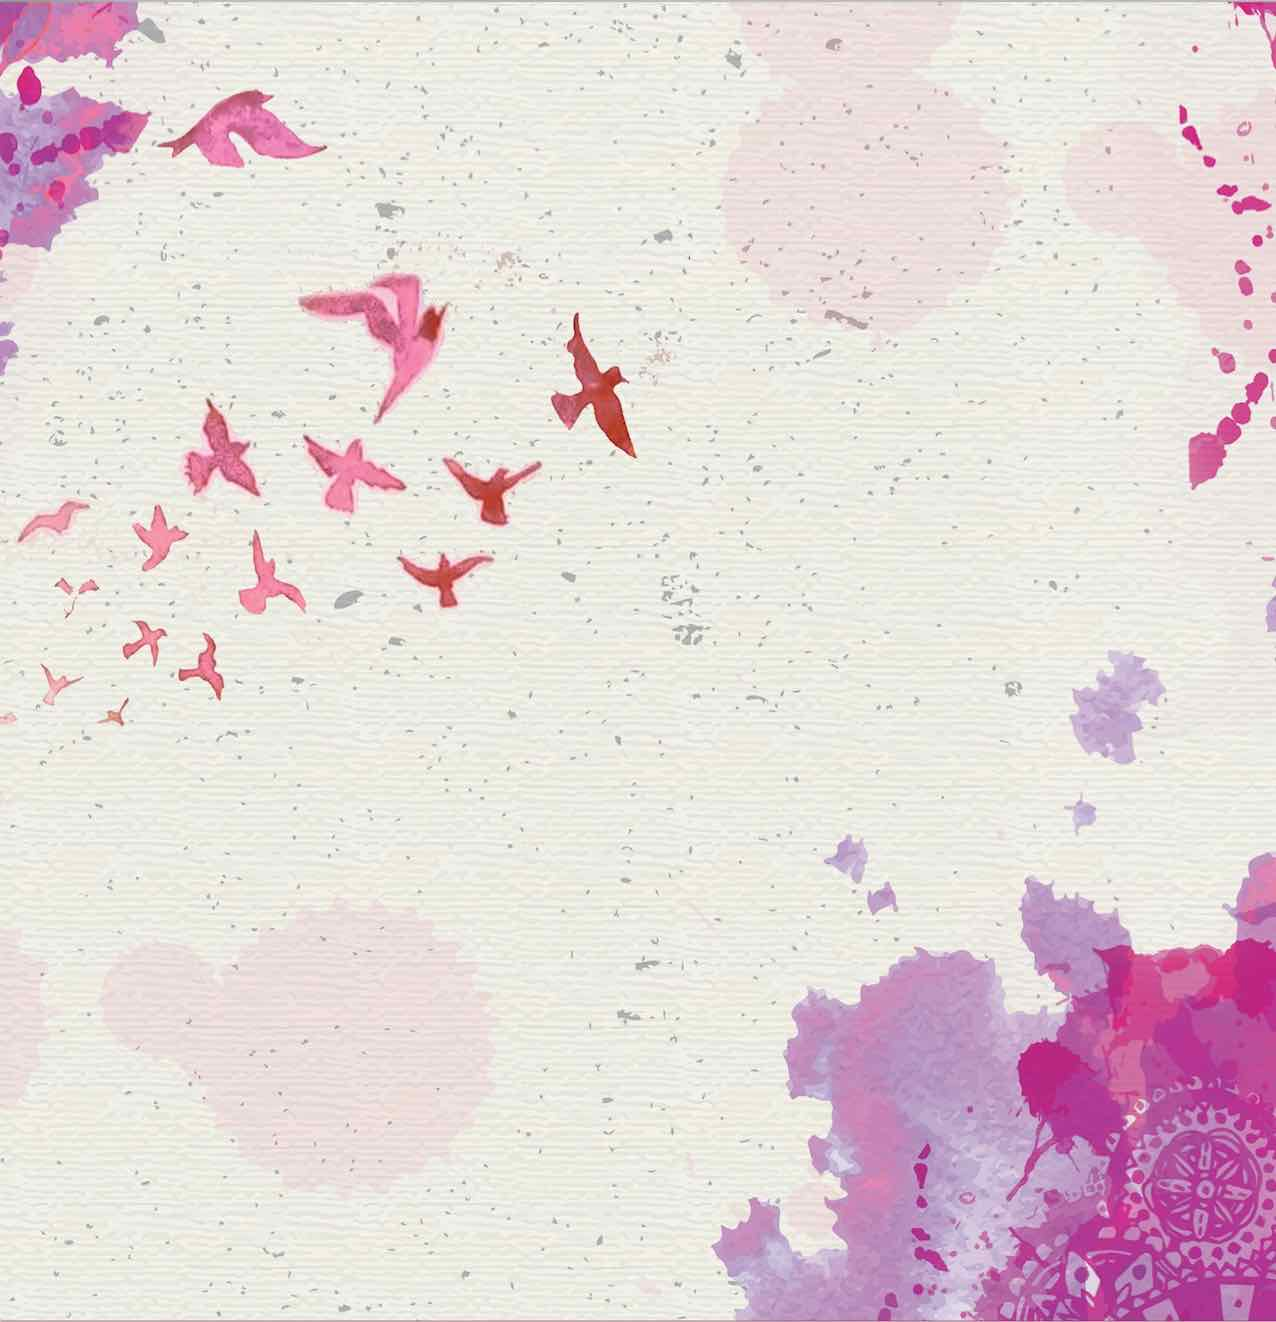
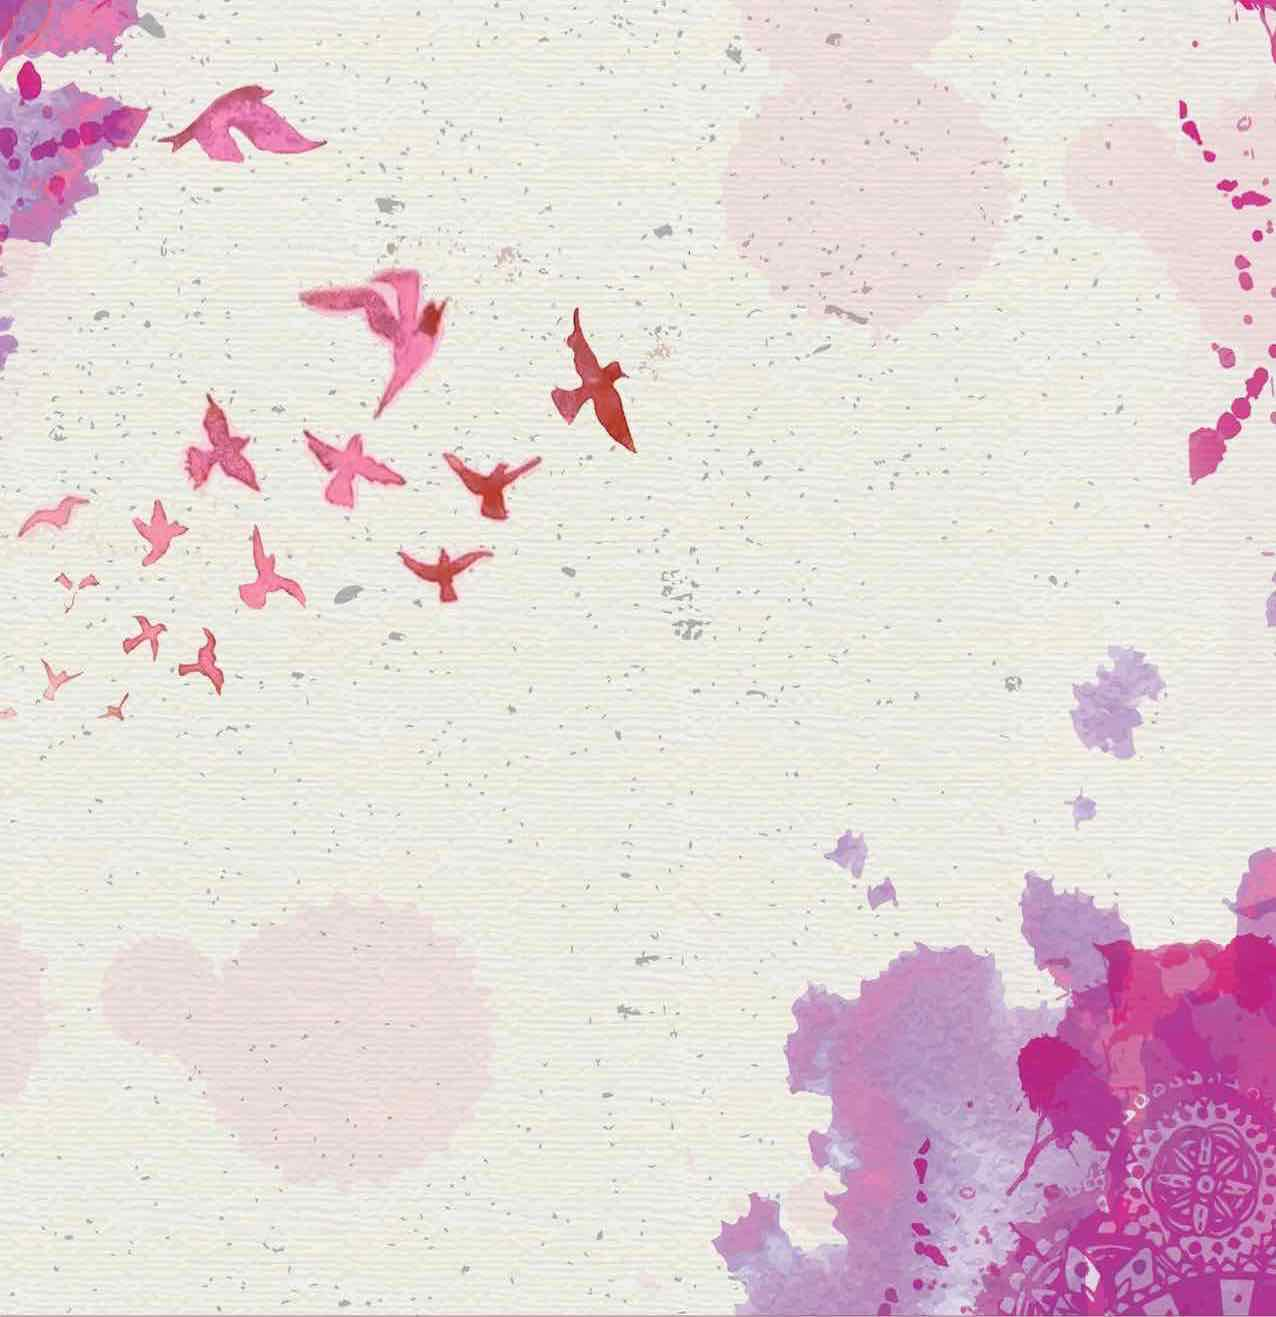
fixing the menu

diff --git a/app/assets/stylesheets/pages.scss b/app/assets/stylesheets/pages.scss
@@ -282,10 +282,9 @@
 
 #bs-over .food-menu {
   background-image: url("/images/fondo-menu.jpg");
-  background-size: cover;
-  background-position: center;
-  background-repeat: no-repeat;
   background-attachment: fixed;
+  background-position: center;
+  background-repeat: repeat;
 }
 
 #bs-over #rest-menu {
